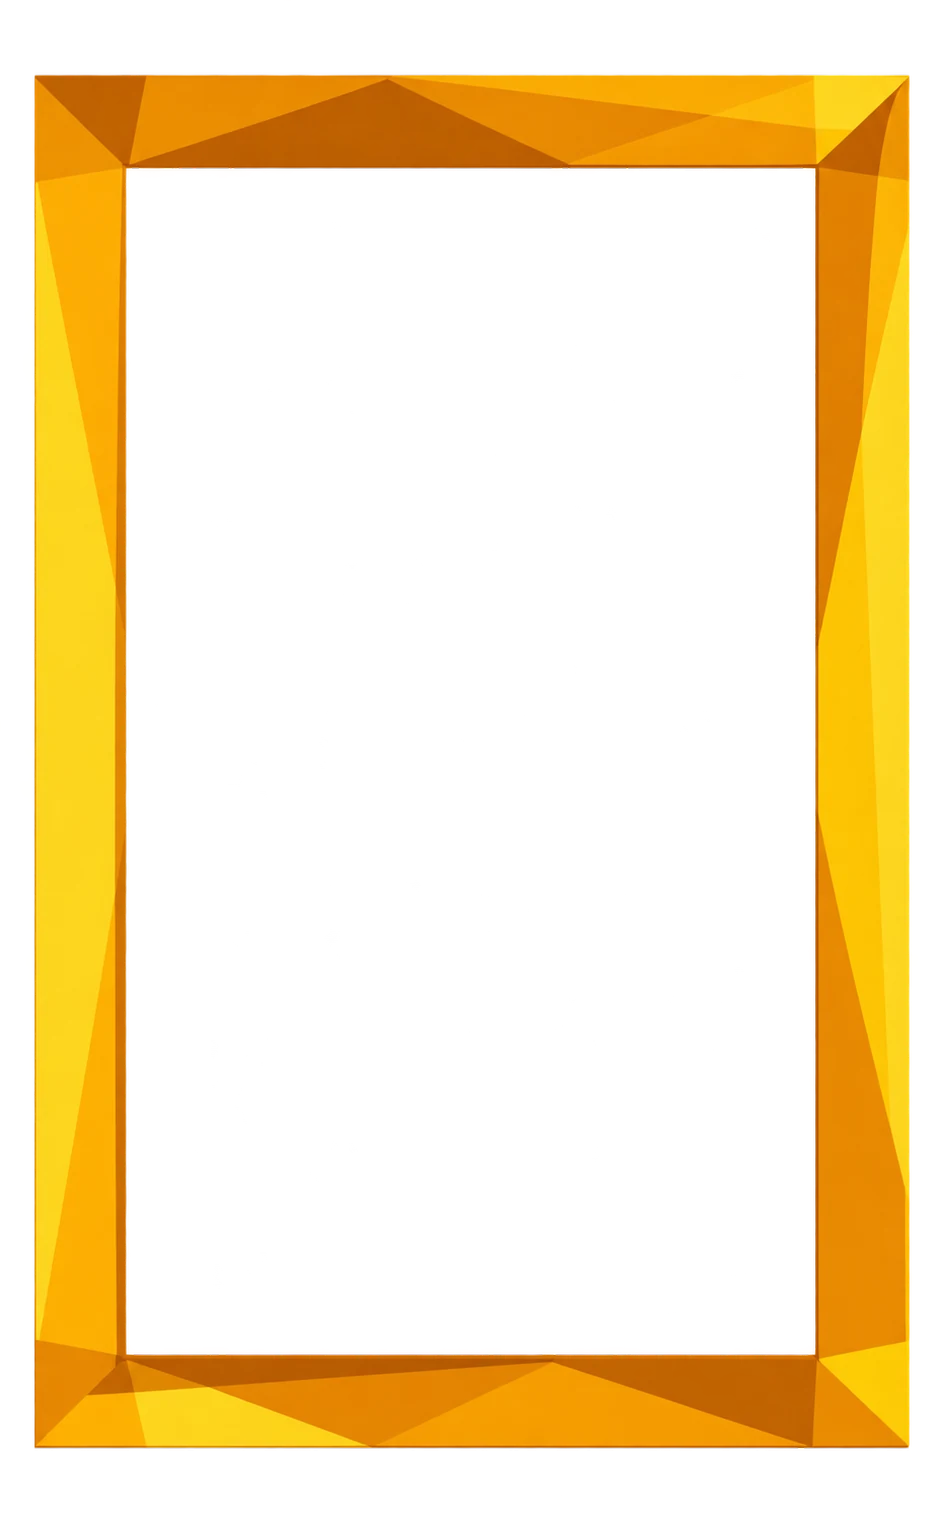
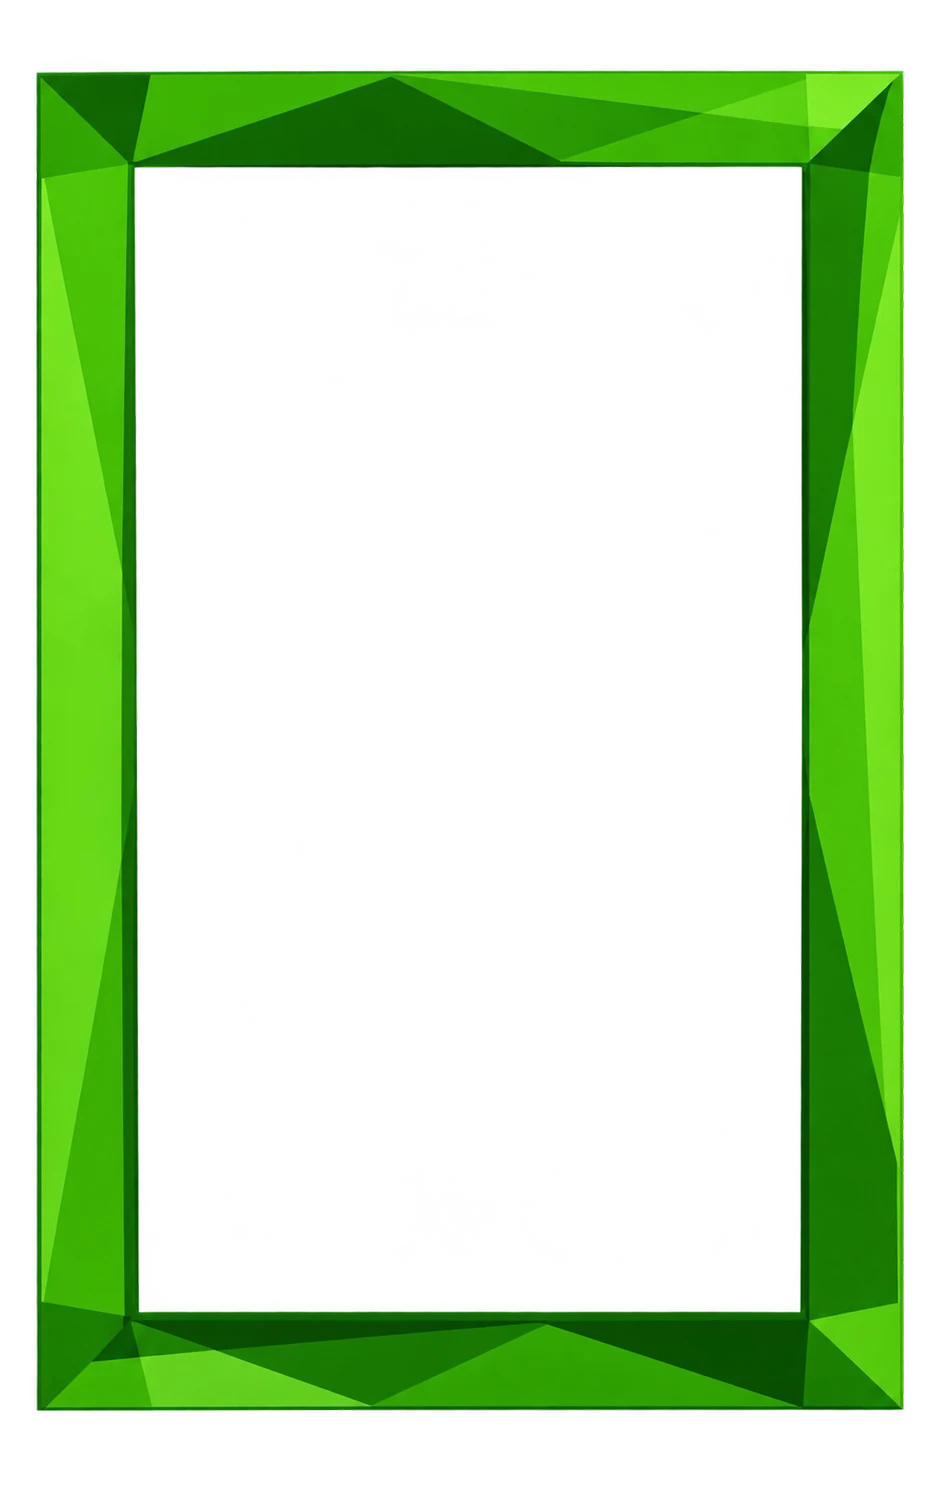
M1.7

Changed region(s): [[0.0309, 0.031, 0.9872, 0.9596]]

diff --git a/src/lib/google-auth.ts b/src/lib/google-auth.ts
@@ -10,6 +10,28 @@
  * ever exists inside a server function.
  */
 
+/**
+ * Every network call in this file used to have no timeout at all. If Google's
+ * token endpoint or the Sheets API ever stalled — a slow edge, a dropped
+ * connection that never resets — the fetch would hang forever with it, and so
+ * would the whole /api/subscribe request behind it: the signup button on the
+ * page would sit on "Sending…" indefinitely, with nothing to time out and no
+ * error to show. This wraps every call here in a bound, so the worst case is
+ * a clear failure in a few seconds, never a silent hang.
+ */
+const FETCH_TIMEOUT_MS = 8000;
+
+/** Exported so subscribe.ts can put the same bound on its own Brevo call. */
+export async function fetchWithTimeout(input: string, init: RequestInit = {}): Promise<Response> {
+	const controller = new AbortController();
+	const timer = setTimeout(() => controller.abort(), FETCH_TIMEOUT_MS);
+	try {
+		return await fetch(input, { ...init, signal: controller.signal });
+	} finally {
+		clearTimeout(timer);
+	}
+}
+
 function base64url(data: string | ArrayBuffer): string {
 	const bytes =
 		typeof data === "string" ? new TextEncoder().encode(data) : new Uint8Array(data);
@@ -60,7 +82,7 @@ export async function getGoogleAccessToken(credsJson: string): Promise<string> {
 		new TextEncoder().encode(signingInput),
 	);
 
-	const res = await fetch("https://oauth2.googleapis.com/token", {
+	const res = await fetchWithTimeout("https://oauth2.googleapis.com/token", {
 		method: "POST",
 		headers: { "Content-Type": "application/x-www-form-urlencoded" },
 		body: `grant_type=urn%3Aietf%3Aparams%3Aoauth%3Agrant-type%3Ajwt-bearer&assertion=${signingInput}.${base64url(signature)}`,
@@ -83,7 +105,7 @@ export async function getGoogleAccessToken(credsJson: string): Promise<string> {
  * the row should not put a seat back.
  */
 export async function countSheetRows(sheetId: string, token: string): Promise<number> {
-	const res = await fetch(
+	const res = await fetchWithTimeout(
 		`https://sheets.googleapis.com/v4/spreadsheets/${sheetId}/values/A:A?majorDimension=COLUMNS`,
 		{ headers: { Authorization: `Bearer ${token}` } },
 	);
@@ -119,19 +141,19 @@ export async function appendToSheet(
 	const auth = { Authorization: `Bearer ${token}`, "Content-Type": "application/json" };
 	const lastCol = String.fromCharCode(64 + Math.min(headers.length, 26));
 
-	const check = await fetch(`${base}/A1:${lastCol}1`, { headers: auth });
+	const check = await fetchWithTimeout(`${base}/A1:${lastCol}1`, { headers: auth });
 	const checkData = (await check.json()) as { values?: string[][] };
 	const existing = checkData.values?.[0] ?? [];
 
 	if (existing[0] !== headers[0] || existing.length < headers.length) {
-		await fetch(`${base}/A1:${lastCol}1?valueInputOption=RAW`, {
+		await fetchWithTimeout(`${base}/A1:${lastCol}1?valueInputOption=RAW`, {
 			method: "PUT",
 			headers: auth,
 			body: JSON.stringify({ values: [headers] }),
 		});
 	}
 
-	const res = await fetch(
+	const res = await fetchWithTimeout(
 		`${base}/A:${lastCol}:append?valueInputOption=RAW&insertDataOption=INSERT_ROWS`,
 		{
 			method: "POST",

diff --git a/functions/api/seats.ts b/functions/api/seats.ts
@@ -1,5 +1,5 @@
 /**
- * How many seats are left: the number set in config.ts, minus everyone already
+ * How many seats are left: seatsTotal from config.ts, minus everyone already
  * on the signup sheet. Served at /api/seats.
  *
  * A Cloudflare Pages Function — the page itself is static, built once and
@@ -8,10 +8,11 @@
  * state first.
  *
  * It NEVER fails in a way the visitor can see. If the sheet cannot be read, the
- * configured number is returned and the counter shows that: a seat count that
- * is slightly stale is harmless, a broken counter in the hero is not.
+ * configured total is returned as both figures and the counter shows that: a
+ * seat count that is slightly stale is harmless, a broken counter in the hero
+ * is not.
  */
-import { seatsRemaining as configuredSeats } from "../../src/data/config";
+import { seatsTotal } from "../../src/data/config";
 import { getGoogleAccessToken, countSheetRows } from "../../src/lib/google-auth";
 
 interface Env {
@@ -42,17 +43,17 @@ export const onRequestGet: PagesFunction<Env> = async (context) => {
 
 	if (!credsJson || !sheetId) {
 		console.error("[seats] sheet is not configured; falling back to the number in config.ts");
-		return json({ remaining: configuredSeats, exact: false });
+		return json({ remaining: seatsTotal, total: seatsTotal, exact: false });
 	}
 
 	try {
 		const token = await getGoogleAccessToken(credsJson);
 		const taken = await countSheetRows(sheetId, token);
 		// Never below zero, and never above the number that was offered.
-		const remaining = Math.min(configuredSeats, Math.max(0, configuredSeats - taken));
-		return json({ remaining, exact: true });
+		const remaining = Math.min(seatsTotal, Math.max(0, seatsTotal - taken));
+		return json({ remaining, total: seatsTotal, exact: true });
 	} catch (err) {
 		console.error("[seats] could not read the sheet:", err);
-		return json({ remaining: configuredSeats, exact: false });
+		return json({ remaining: seatsTotal, total: seatsTotal, exact: false });
 	}
 };

diff --git a/src/data/config.ts b/src/data/config.ts
@@ -13,8 +13,21 @@ export const webinarDate = "FRIDAY 30 OCTOBER — 7PM";
  */
 export const webinarAt = "2026-10-30T19:00:00+02:00";
 
-/** The number shown in the hero seats counter. */
-export const seatsRemaining = 418;
+/**
+ * Total seats on offer — the fixed number on the right of the counter's "/".
+ * How many are left is worked out live from the signup sheet (see
+ * functions/api/seats.ts), never edited here.
+ */
+export const seatsTotal = 450;
+
+/**
+ * What the left side of the counter shows before the live figure has loaded,
+ * or if /api/seats cannot be reached at all. Set this to whatever the real
+ * remaining count is at the time, the same as you would seatsTotal — it does
+ * not update itself, and a stale fallback becomes visible the moment the sheet
+ * is briefly unreachable.
+ */
+export const seatsRemainingFallback = 418;
 
 /**
  * How long the webinar runs, in minutes. Only used to work out the end time on

diff --git a/functions/api/subscribe.ts b/functions/api/subscribe.ts
@@ -15,7 +15,7 @@
  * the private key into the published files.
  */
 import { signupQuestions } from "../../src/data/config";
-import { getGoogleAccessToken, appendToSheet } from "../../src/lib/google-auth";
+import { getGoogleAccessToken, appendToSheet, fetchWithTimeout } from "../../src/lib/google-auth";
 import {
 	checkEmail,
 	honeypotTripped,
@@ -143,7 +143,7 @@ export const onRequestPost: PagesFunction<Env> = async (context) => {
 		if (sms) attributes.SMS = sms;
 
 		const postContact = (attrs: Record<string, string>) =>
-			fetch("https://api.brevo.com/v3/contacts", {
+			fetchWithTimeout("https://api.brevo.com/v3/contacts", {
 				method: "POST",
 				headers: {
 					"api-key": brevoKey,
